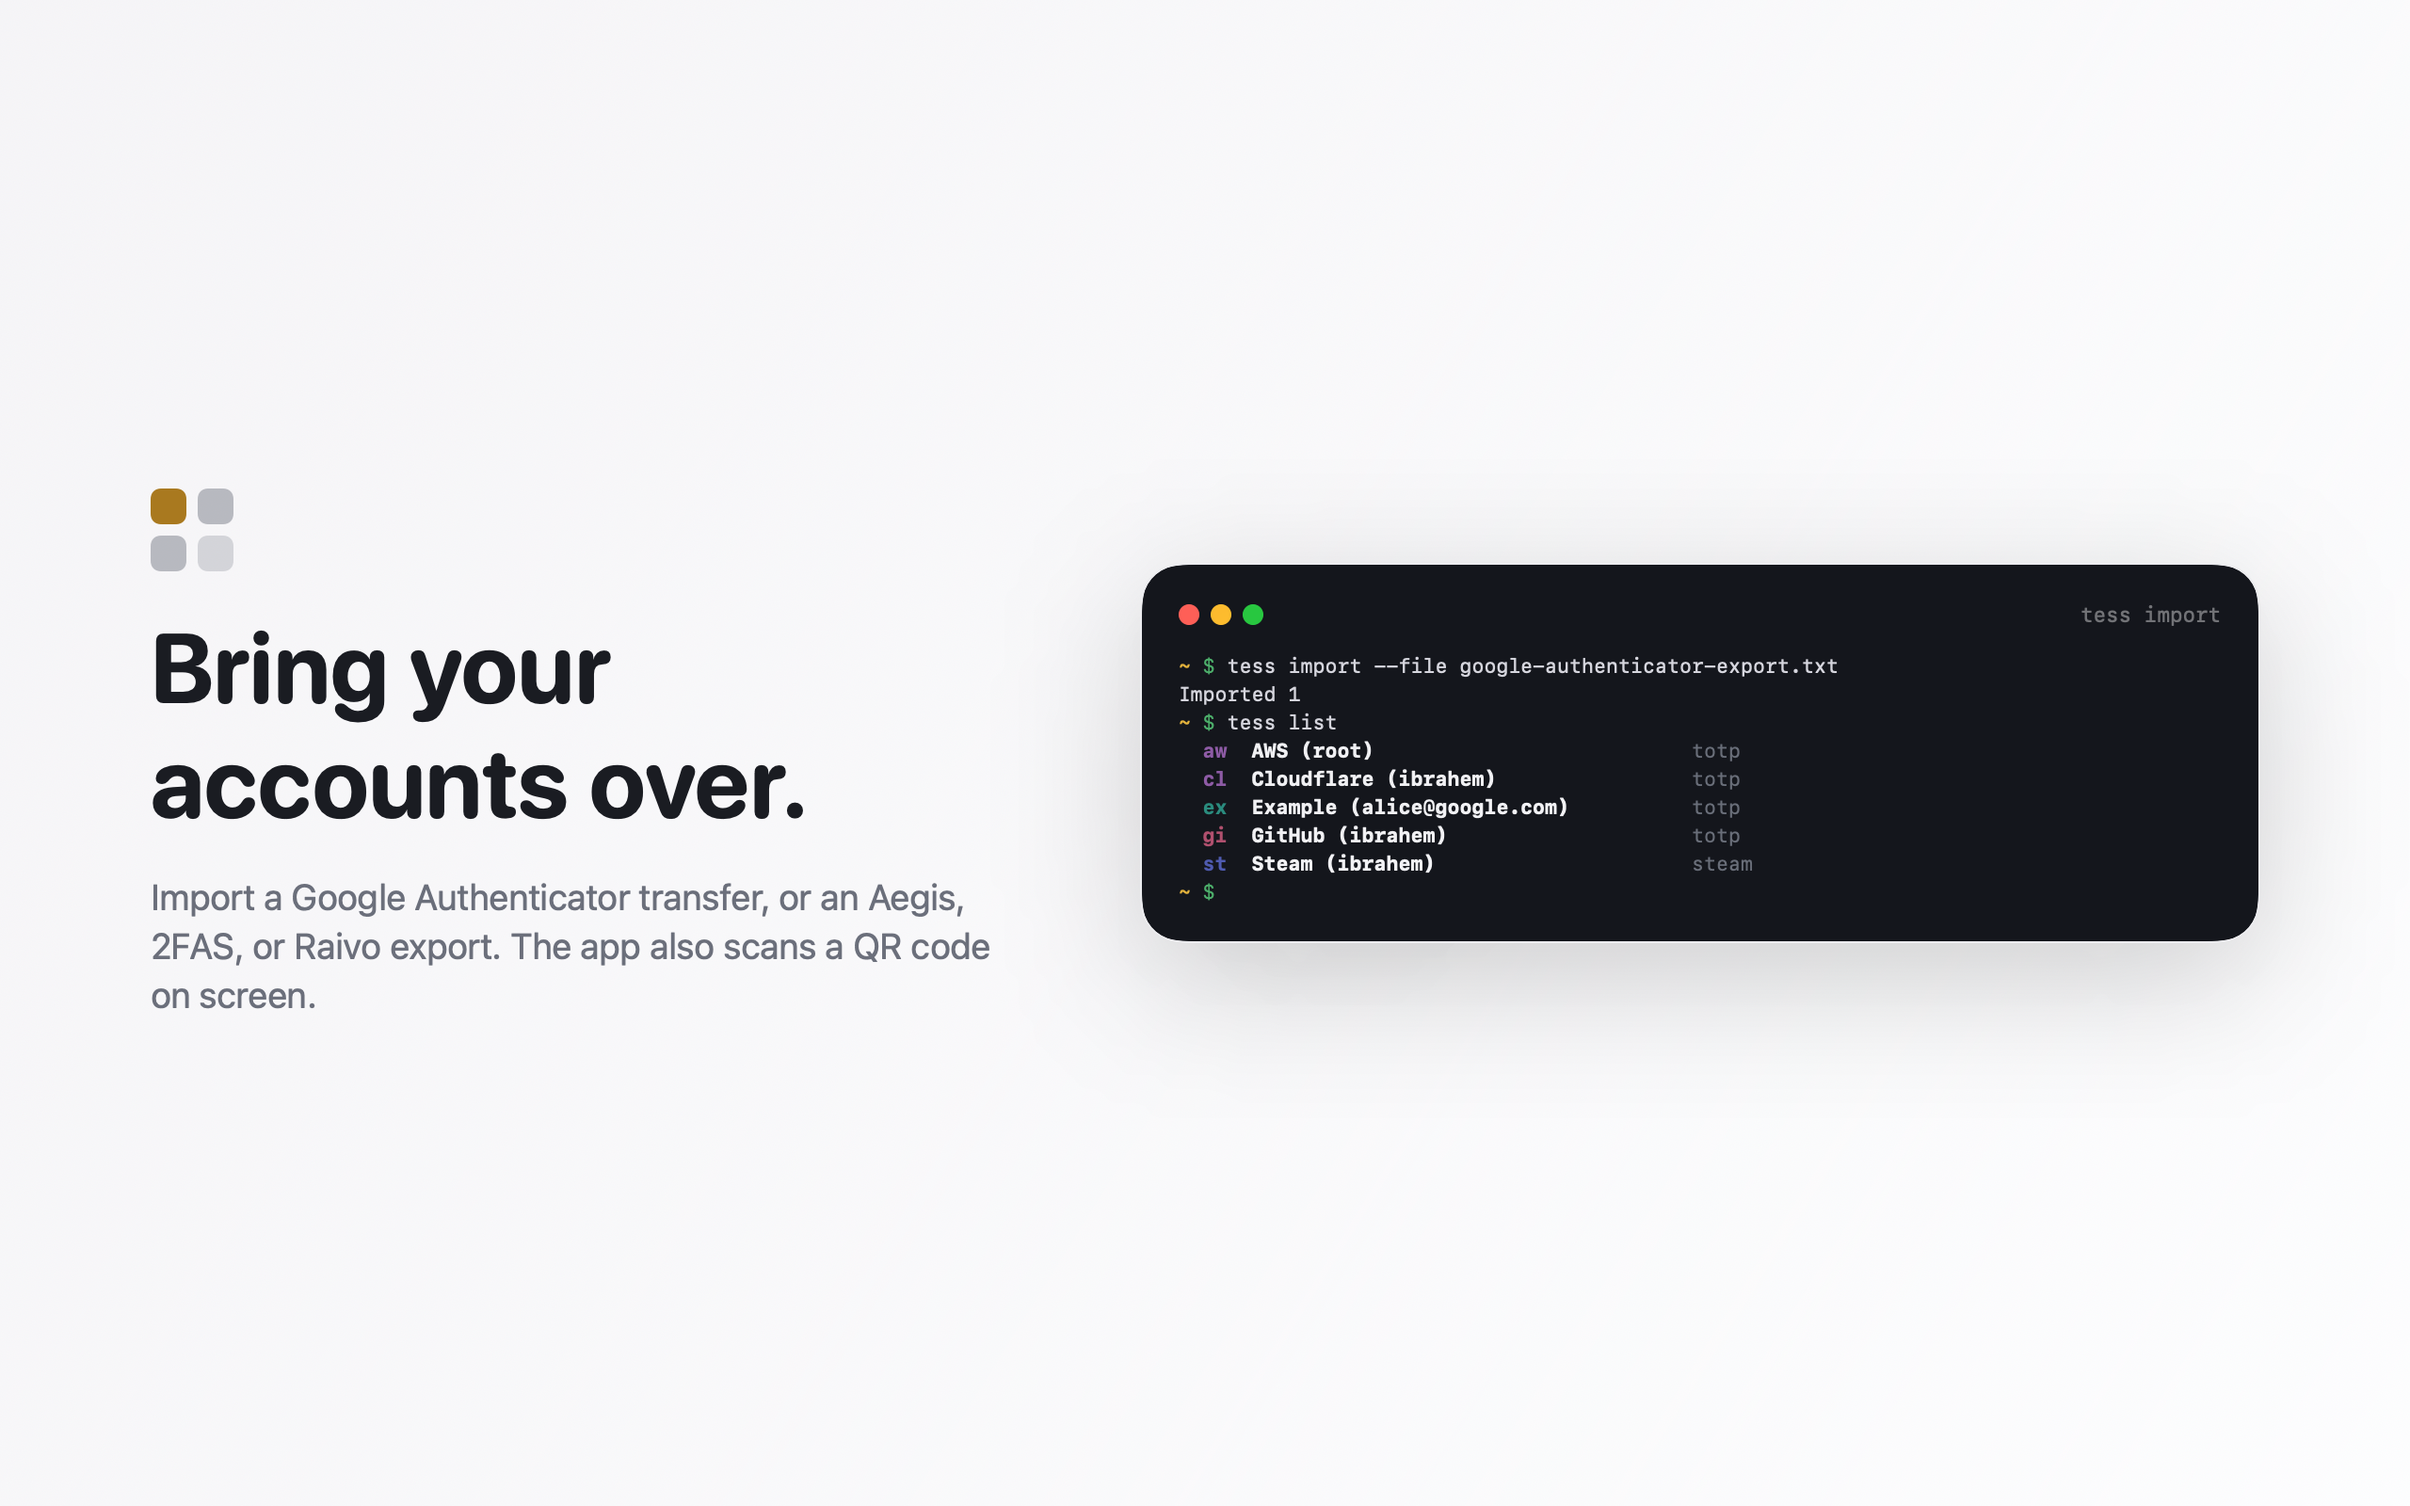
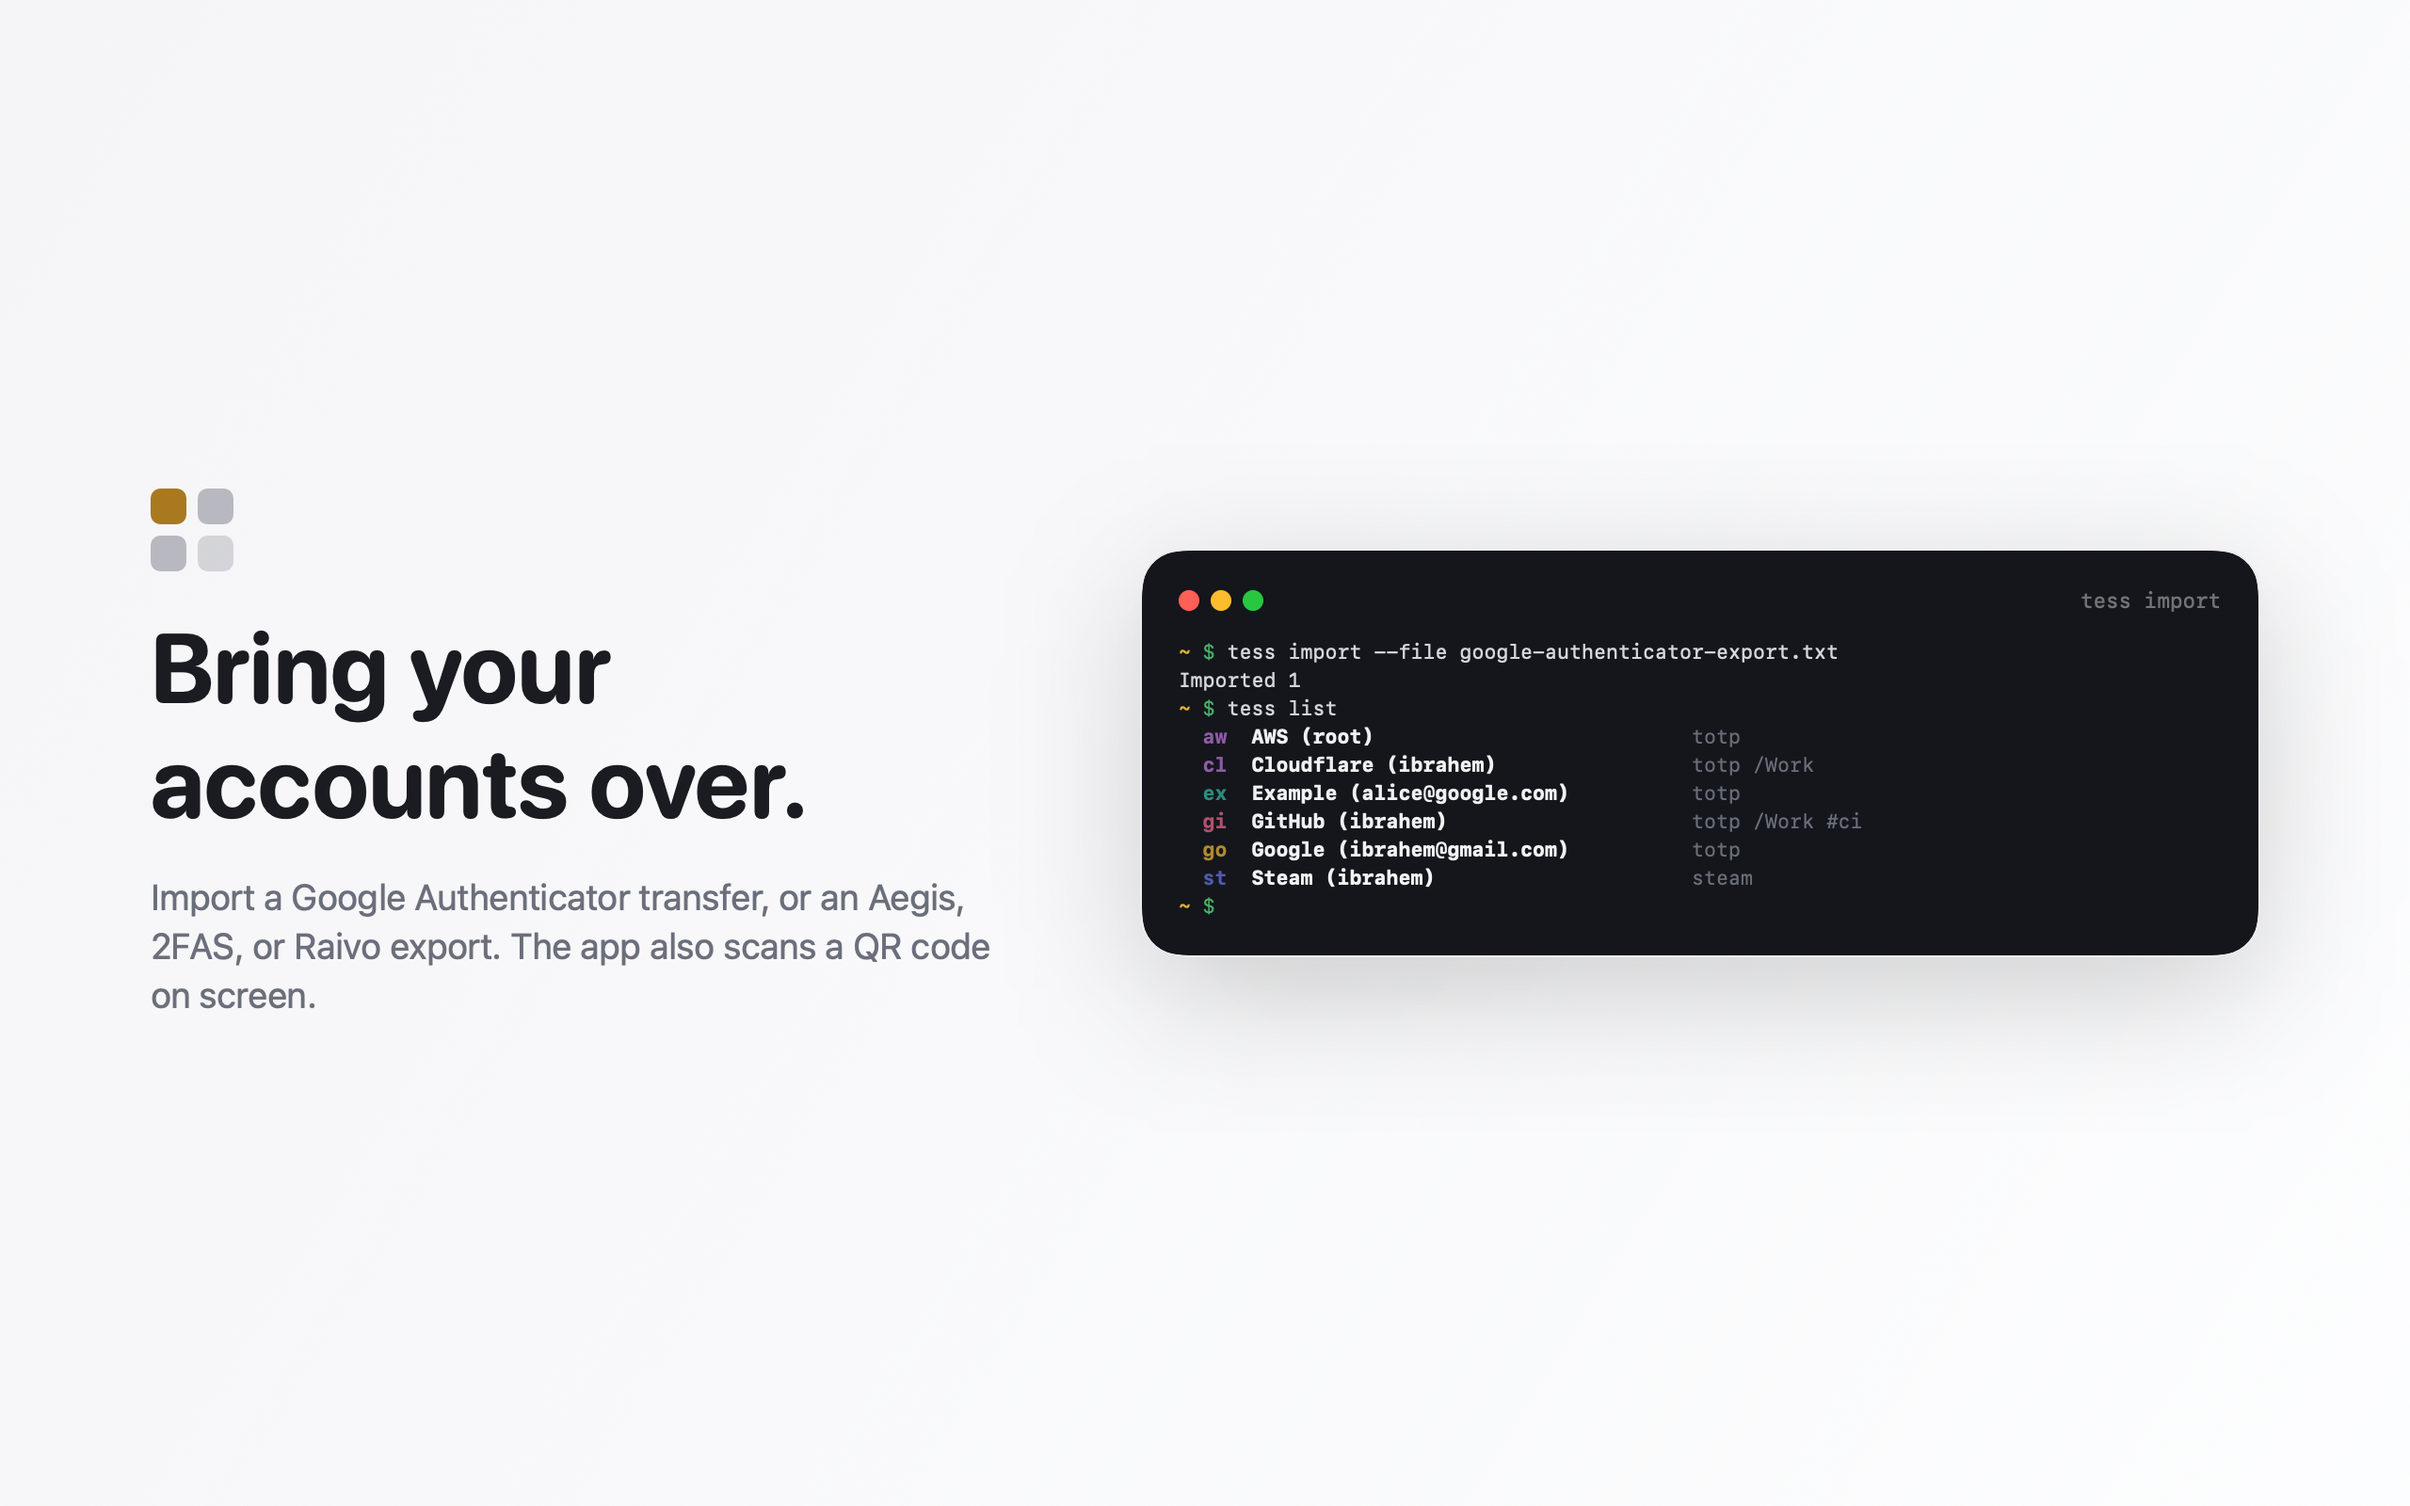
docs(store): one vault across every screenshot, verified reviewer note
The recorded CLI frames used a different account set than the app frame, in
a listing whose first claim is that the app and the CLI share one vault.
Re-recorded against the same five accounts, with the Google Authenticator
import last so it is the only frame that adds one.

Reviewer note now points at the toolbar + button and Command-N, both read
off the ToolbarItem in Views.swift. App name in the submission sheet drops
the en dash to match the live listing, and the Swift test count is 57.

diff --git a/docs/app-store-submission.html b/docs/app-store-submission.html
@@ -47,7 +47,7 @@
 <div class="note">⚠ <b>Two things must happen before you submit:</b> (1) deploy the site so the privacy &amp; support URLs are live — <code>cd tessera/site &amp;&amp; npm run deploy</code> + point <code>tessera.ibrahemid.com</code> DNS at Cloudflare. (2) Get your 10-character <b>Team ID</b> from <a href="https://developer.apple.com/account#MembershipDetailsCard">developer.apple.com → Membership</a> (team “Ibrahem Mahyob”).</div>
 
 <h2>1 · Identifiers <span class="pill done">done</span></h2>
-<div class="field"><div class="k">App name (≤30)</div><div class="v copy">Tessera – 2FA Authenticator</div></div>
+<div class="field"><div class="k">App name (≤30)</div><div class="v copy">Tessera 2FA Authenticator</div></div>
 <div class="field"><div class="k">Subtitle (≤30)</div><div class="v copy">2FA for your Mac and CLI</div></div>
 <div class="field"><div class="k">Bundle ID</div><div class="v copy">com.ibrahemid.tessera</div></div>
 <div class="field"><div class="k">SKU</div><div class="v copy">tessera-mac-001</div></div>
@@ -85,7 +85,7 @@ Works with any service that supports standard two-factor authentication. Tessera
 
 <h2>3 · App Review answers <span class="pill done">done</span></h2>
 <div class="field"><div class="k">Sign-in required?</div><div class="v">No — no account, fully offline.</div></div>
-<div class="field"><div class="k">Review notes (paste)</div><div class="v copy">Tessera is an offline TOTP authenticator; no login is required. To test: open the app, click the + button in the window’s top right, and paste this test link:
+<div class="field"><div class="k">Review notes (paste)</div><div class="v copy">Tessera is an offline TOTP authenticator; no login is required. To test: open the app, click the + button in the toolbar (or press Command-N), and paste this test link:
 otpauth://totp/Demo:tester?secret=JBSWY3DPEHPK3PXP&issuer=Demo
 A 6-digit code appears with a 30-second countdown ring. You can copy it by clicking the row. “Scan screen” and “Import from images or files” are the other ways to add accounts.</div></div>
 <div class="field"><div class="k">Age rating</div><div class="v">4+ — answer “None” to every content question.</div></div>

diff --git a/docs/APP_STORE.md b/docs/APP_STORE.md
@@ -38,7 +38,7 @@ Kept as a record. None of it repeats per release.
 
 ## Build & test status (verified on Xcode 27)
 
-- **`cd swift && swift test`**: 45 tests green, including `testArgon2idVector`
+- **`cd swift && swift test`**: 57 tests green, including `testArgon2idVector`
   (matches Go `x/crypto`) and `testFullVaultCrossDecrypt` (full Go to Swift
   envelope decrypt with real argon2id).
 - **App build**: `xcodegen generate && xcodebuild ... build` succeeds; the app
@@ -184,7 +184,8 @@ build, rebuild the same source with `CURRENT_PROJECT_VERSION` raised and
 
 ```
 Tessera is an offline TOTP authenticator; no login is required. To test: open
-the app, click the + button in the window's top right, and paste this link:
+the app, click the + button in the toolbar (or press Command-N), and paste
+this link:
 otpauth://totp/Demo:tester?secret=JBSWY3DPEHPK3PXP&issuer=Demo
 A 6-digit code appears with a 30-second countdown ring. Click the row to copy
 it. "Scan screen" and "Import from images or files" are the other ways to add
